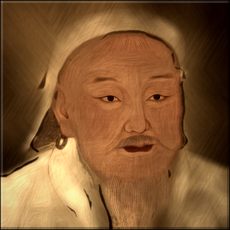
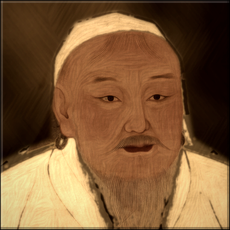
Outline the hardest leader heads by hand
Japan, Mongols, Rome, Greece, Aztecs and Zululand get hand-drawn
outlines so their old backgrounds give way to the painted ground, and
Zululand's print hatching is softened into tone.

diff --git a/ArtGen/leaderheads/build.py b/ArtGen/leaderheads/build.py
@@ -135,7 +135,7 @@ ARTIST = {'Scandinavia': 'Hans Dahl'}
 # beside the sitter; 'disc', the corners outside a round picture filled
 # with a dark warm tone.
 TOUCH = {
-    'Zululand': {'contrast': 1.15, 'sharpen': 20},
+    'Zululand': {'sharpen': 20},
     'Scandinavia': {'sharpen': 20},
     'Celts': {'sharpen': 15},
     'Arabia': {'color': 0.4, 'disc': True},
@@ -143,18 +143,29 @@ TOUCH = {
 }
 # The painted finish (paint.py) adjusted for a few pictures: see paint.paint.
 PAINT = {
-    'Rome': {'broad': 140, 'keep': 0.5, 'color': 0.45},
+    # Hand-drawn outlines (polygons, in fractions of the tile) where the
+    # mask can't find the sitter's edge: outside them is all painted ground.
+    'Rome': {'broad': 140, 'keep': 0.5, 'color': 0.45, 'hand_only': True,
+             'hand': [[(0.29, 0.3), (0.34, 0.1), (0.45, 0.04), (0.6, 0.03), (0.72, 0.06), (0.78, 0.15), (0.78, 0.38),
+                       (0.74, 0.62), (0.8, 0.74), (0.97, 0.8), (0.97, 1), (0.17, 1), (0.2, 0.8), (0.25, 0.66),
+                       (0.29, 0.5)]]},
     # statues before a light wall: the sitter's outline pulled in further,
     # so no light rim of the wall glows round the head
     'Babylon': {'erode': 15, 'plain': 1.0},
     'Hittites': {'oval': 0.6, 'erode': 15},
     'Sumeria': {'erode': 15},
-    'Greece': {'erode': 30},
-    # a print: all in the shared key, like the black and white photographs
-    'Zululand': {'erode': 30, 'color': 0.0},
+    'Greece': {'hand_only': True,
+               'hand': [[(0.13, 0.3), (0.17, 0.14), (0.3, 0.07), (0.55, 0.06), (0.75, 0.11), (0.85, 0.22), (0.89, 0.5),
+                         (0.86, 1), (0.17, 1), (0.12, 0.65)]]},
+    # a print: all in the shared key, like the black and white photographs,
+    # its hatching softened into tone
+    'Zululand': {'color': 0.0, 'soften': 1.1, 'texture': 0, 'contrast': 0.85, 'level': 0.36, 'hand_only': True,
+                 'hand': [[(0.29, 0.35), (0.31, 0.18), (0.42, 0.12), (0.56, 0.1), (0.67, 0.14), (0.71, 0.22),
+                           (0.7, 0.45), (0.62, 0.62), (0.64, 0.76), (1, 0.86), (1, 1), (0, 1), (0, 0.88),
+                           (0.34, 0.77), (0.37, 0.62), (0.3, 0.5)]]},
     # a pale face on pale silk the mask can't tell apart: a hand-drawn
     # outline (hat, face, shoulders, in fractions of the tile)
-    'Korea': {'keep': 0.9, 'color': 0.6, 'contrast': 1.3, 'level': 0.36,
+    'Korea': {'keep': 0.9, 'color': 0.6, 'contrast': 1.3, 'level': 0.36, 'hand_only': True,
               'hand': [[(0.385, 0.05), (0.635, 0.05), (0.69, 0.21), (0.68, 0.36), (0.665, 0.5), (0.63, 0.7),
                         (1, 0.8), (1, 1), (0, 1), (0, 0.8), (0.34, 0.7), (0.315, 0.5), (0.31, 0.36),
                         (0.32, 0.21)]]},
@@ -163,10 +174,17 @@ PAINT = {
     'America': {'keep': 0.65},
     'China': {'keep': 0.65},
     'India': {'keep': 0.65},
-    'Mongols': {'color': 0.35, 'level': 0.30},
+    'Mongols': {'color': 0.35, 'level': 0.30,
+                'hand': [[(0.22, 0.6), (0.24, 0.25), (0.33, 0.1), (0.5, 0.05), (0.67, 0.1), (0.78, 0.25), (0.84, 0.6),
+                          (1, 0.7), (1, 1), (0, 1), (0, 0.7)]]},
+    'Japan': {'hand': [[(0.42, 0.36), (0.5, 0.24), (0.58, 0.21), (0.58, 0.02), (0.65, 0.02), (0.66, 0.21),
+                        (0.74, 0.27), (0.78, 0.4), (0.8, 0.6), (1, 0.6), (1, 1), (0, 1), (0, 0.72), (0.2, 0.65),
+                        (0.4, 0.6), (0.4, 0.45)]]},
     'Byzantines': {'keep': 0.75, 'broad': 150},
-    # a busy painted cape and headdress the mask mistakes for background
-    'Aztecs': {'oval': 1.3, 'erode': 120, 'bg': 0.6, 'broad': 140},
+    'Aztecs': {'broad': 140,
+               'hand': [[(0.38, 0.25), (0.42, 0.1), (0.5, 0.05), (0.62, 0.02), (0.75, 0.02), (0.8, 0.1), (0.78, 0.3),
+                         (0.85, 0.45), (0.9, 0.62), (1, 0.68), (1, 1), (0, 1), (0, 0.6), (0.15, 0.55),
+                         (0.38, 0.5)]]},
     'Portugal': {'level': 0.50},
     'Inca': {'level': 0.48},
     # Abu Bakr's roundel: its green dimmed toward an aged verdigris

diff --git a/ArtGen/leaderheads/paint.py b/ArtGen/leaderheads/paint.py
@@ -166,7 +166,8 @@ def backdrop(n, seed):
 
 
 def paint(img, seed=0, strength=1.0, oval=1.0, keep=0.4, broad=70, bg=0.92, color=0.75, erode=60, level=0.42,
-          fixed=None, plain=None, contrast=1.0, texture=1.0, green=None, hand=None):
+          fixed=None, plain=None, contrast=1.0, texture=1.0, green=None, hand=None, soften=0,
+          hand_only=False):
     """The painted finish on a PIL RGB picture (returns float RGB 0..1).
     Per picture: oval, how sure the center is the sitter (lower for a
     sitter before a bright wall, which would glow); keep, how much of the
@@ -175,6 +176,9 @@ def paint(img, seed=0, strength=1.0, oval=1.0, keep=0.4, broad=70, bg=0.92, colo
     bg, how much of the old background the painted ground replaces."""
     a = np.asarray(img, np.float32) / 255
     n = a.shape[0]
+    if soften:
+        # (a print: its hatching softened into tone first)
+        a = nd.gaussian_filter(a, (soften, soften, 0))
     if contrast != 1.0:
         a = np.clip((a - a.mean()) * contrast + a.mean(), 0, 1)
     mask, wall = subject_mask(a, oval, erode, plain)
@@ -186,8 +190,10 @@ def paint(img, seed=0, strength=1.0, oval=1.0, keep=0.4, broad=70, bg=0.92, colo
         for poly in hand:
             _D.Draw(im).polygon([(x * n, y * n) for x, y in poly], fill=255)
         hm = nd.gaussian_filter(np.asarray(im, np.float32) / 255, n / 120)
-        mask = hm
-        wall = 1 - hm
+        # inside the outline the wall the mask found is still ground, unless
+        # the outline is all there is to go by (hand_only)
+        mask = hm if hand_only else hm * (1 - wall)
+        wall = 1 - hm if hand_only else np.maximum(wall, 1 - hm)
     if fixed:
         # a sitter the mask can't find (pale on pale paper): a fixed soft
         # silhouette, an oval head over wide shoulders, (cx, cy, rx, ry)
